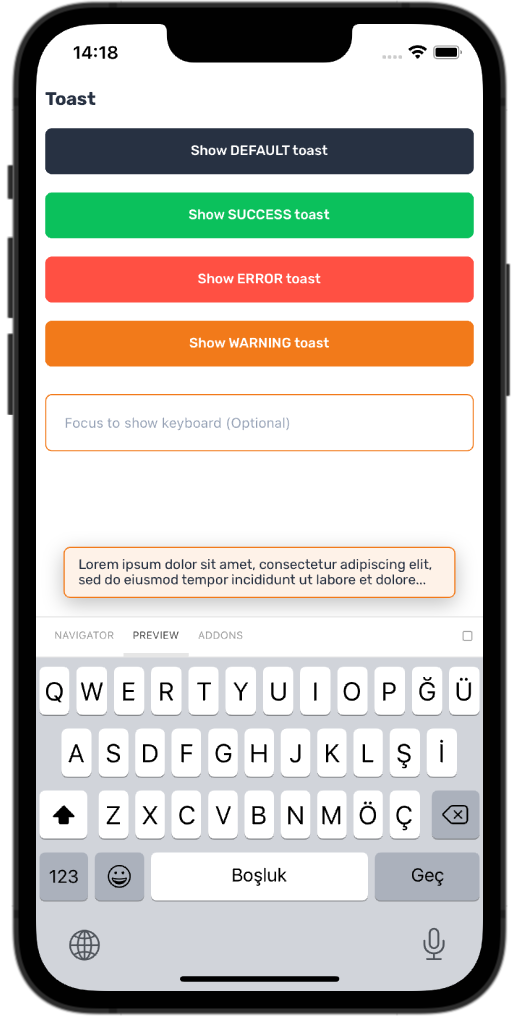
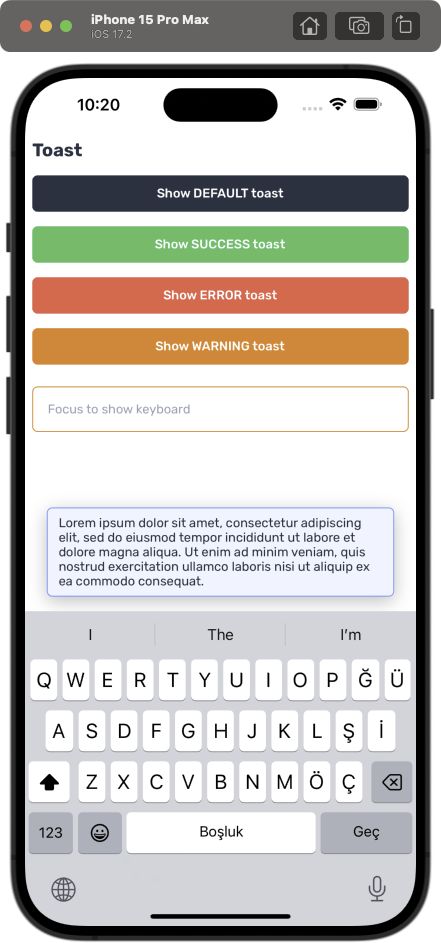
feat(toast): update default variant color

diff --git a/src/theme.ts b/src/theme.ts
@@ -603,14 +603,13 @@ const theme = createTheme({
     defaults: {
       borderWidth: 1,
       borderRadius: 'm',
-      backgroundColor: 'accentBackground',
-      borderColor: 'primaryColor',
+      backgroundColor: 'infoBackground',
+      borderColor: 'infoKey',
       flexDirection: 'row',
       minHeight: 40,
       paddingHorizontal: 'xs',
       paddingVertical: '2xs',
       alignItems: 'center',
-
       shadowColor: 'black',
       shadowOffset: {
         width: 0,
@@ -618,12 +617,11 @@ const theme = createTheme({
       },
       shadowOpacity: 0.25,
       shadowRadius: 10,
-
       elevation: 5,
     },
     default: {
-      backgroundColor: 'accentBackground',
-      borderColor: 'primaryColor',
+      backgroundColor: 'infoBackground',
+      borderColor: 'infoKey',
     },
     success: {
       backgroundColor: 'successBackground',

diff --git a/src/components/Toast/ToastView.test.tsx b/src/components/Toast/ToastView.test.tsx
@@ -99,7 +99,7 @@ describe('ToastView', () => {
     expect(actionText).toBeTruthy();
   });
 
-  test('should render the default toast with color #FEF2E8', () => {
+  test('should render the default toast with color #EEF4FF', () => {
     // given
     const data: ToastData = {
       variant: 'default',
@@ -120,7 +120,8 @@ describe('ToastView', () => {
     const toastContainer = getByTestId('toast-container');
     // then
     expect(toastContainer).toHaveStyle({
-      backgroundColor: '#FEF2E8',
+      backgroundColor: '#EEF4FF',
+      borderColor: '#5794FF',
     });
   });
 
